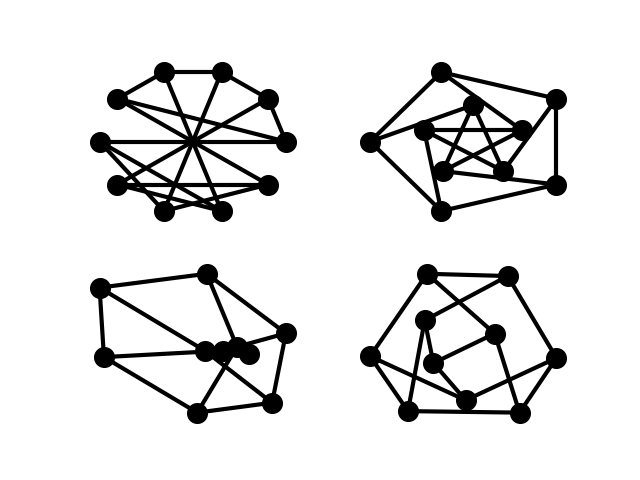
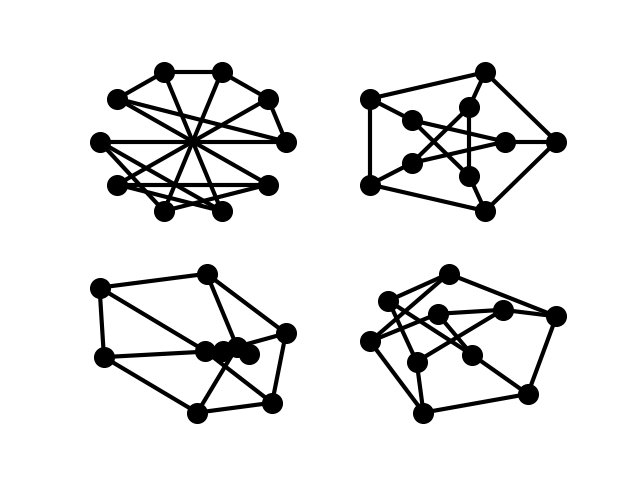
fix shell drawings of petersen graph

Changed region(s): [[0.5625, 0.5312, 0.9062, 0.9062], [0.5625, 0.125, 0.9062, 0.4688]]

diff --git a/src/petersen-shell.py b/src/petersen-shell.py
@@ -7,9 +7,11 @@ options = {
  'with_labels': False,
  'node_color': 'black',
  'node_size': 200,
- 'width': 3,
+ 'width': 3
 }
 
-nx.draw_shell(G, nlist = [range(5, 10), range(5)], **options)
+G_layout = nx.shell_layout(G, nlist = [range(5, 10), range(5)], rotate = 0.)
+
+nx.draw(G, G_layout, **options)
 
 plt.savefig("img/petersen-shell.png", format = "PNG")

diff --git a/src/petersen-various.py b/src/petersen-various.py
@@ -14,7 +14,8 @@ plt.subplot(221)
 nx.draw_circular(G, **options)
 
 plt.subplot(222)
-nx.draw_shell(G, nlist = [range(5,10), range(5)], **options)
+G_layout = nx.shell_layout(G, nlist = [range(5, 10), range(5)], rotate = 0.)
+nx.draw(G, G_layout, **options)
 
 plt.subplot(223)
 nx.draw_spectral(G, **options)
